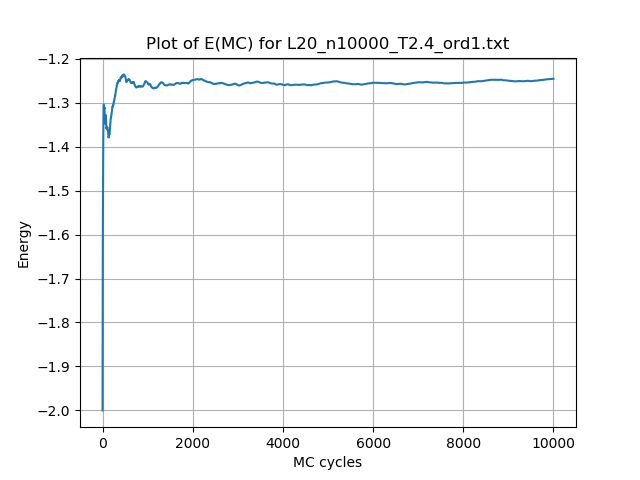
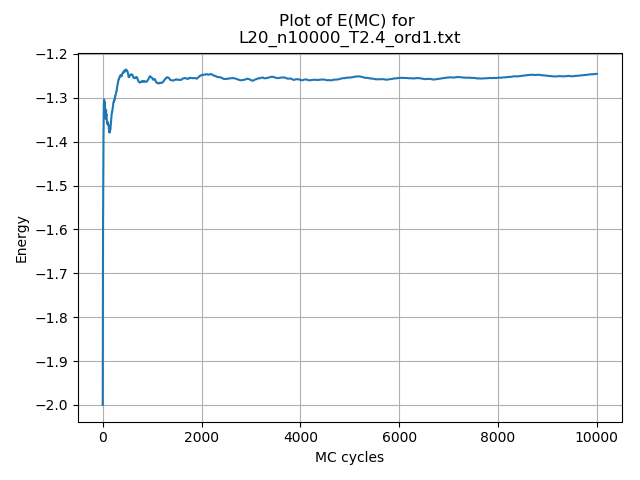
re-ran all(?) plots with tight-layout and \n in title

diff --git a/Project 4/program/probability_distribution_new.py b/Project 4/program/probability_distribution_new.py
@@ -53,11 +53,13 @@ plt.axvline(emean-estd, linestyle="--", color="r")
 plt.axvline(emean, linestyle="--", color="g", label="mean")
 plt.axvline(emean+estd, linestyle="--", color="r", label="std")
 plt.hist(energy[10000:], bins=114, density=True, stacked=True) # Tried various bins, but this gave the fewest artifacts
-plt.title("Energy Probability distribution of " + sys.argv[1])
+plt.title("Energy Probability distribution of \n" + sys.argv[1])
 plt.xlabel("Energy")
 plt.ylabel("P(E)")
 plt.legend()
-plt.savefig("../img/energyhistogram_" + sys.argv[1][:-4] + ".png")
+plt.tight_layout()
+plt.savefig("../img/energyhistogram_" + file[:-11] + file[-10:-4] + ".png")
+#plt.savefig("../img/energyhistogram_" + sys.argv[1][:-4] + ".png")
 plt.show()
 
 
@@ -66,9 +68,11 @@ plt.axvline(mmean-mstd, linestyle="--", color="r")
 plt.axvline(mmean, linestyle="--", color="g", label="mean")
 plt.axvline(mmean+mstd, linestyle="--", color="r", label="std")
 plt.hist(magnet[10000:], bins=126, density=True, stacked=True) # Tried various bins, but this gave the fewest artifacts
-plt.title("Magnetization Probability distribution of " + sys.argv[1])
+plt.title("Magnetization Probability distribution of \n" + sys.argv[1])
 plt.xlabel("Magnetization")
 plt.ylabel("P(E)")
 plt.legend()
-plt.savefig("../img/magnethistogram_" + sys.argv[1][:-4] + ".png")
+plt.tight_layout()
+plt.savefig("../img/magnethistogram_" + file[:-11] + file[-10:-4] + ".png")
+#plt.savefig("../img/magnethistogram_" + sys.argv[1][:-4] + ".png")
 plt.show()

diff --git a/Project 4/program/plot.py b/Project 4/program/plot.py
@@ -26,11 +26,12 @@ for i in range(len(values)):
 
 #plt.subplot(2,1,1)
 plt.plot(result)
-plt.title("Plot of E(MC) for " + filename)
+plt.title("Plot of E(MC) for \n" + filename)
 plt.xlabel("MC cycles")
 plt.ylabel("Energy")
 plt.grid()
-plt.savefig("../img/energy_" + filename[:-4] + ".png")
+plt.tight_layout()
+plt.savefig("../img/energy_" + filename[:-11] + filename[-10:-4] + ".png")
 plt.show()
 valuelist = []
 
@@ -51,9 +52,10 @@ for i in range(len(values)):
 
 #plt.subplot(2,1,2)
 plt.plot(result)
-plt.title("Plot of M(MC) for " + filename)
+plt.title("Plot of M(MC) for \n" + filename)
 plt.xlabel("MC cycles")
 plt.ylabel("Magnetization")
 plt.grid()
-plt.savefig("../img/magnet_" + filename[:-4] + ".png")
+plt.tight_layout()
+plt.savefig("../img/magnet_" + filename[:-11] + filename[-10:-4] + ".png")
 plt.show()

diff --git a/Project 4/program/acc_spin_plot.py b/Project 4/program/acc_spin_plot.py
@@ -24,9 +24,10 @@ for i in range(len(values)):
 
 
 plt.plot(result)
-plt.title("Plot of Accepted spins as a function of MC-cycles for " + filename)
+plt.title("Plot of Accepted spins as a function of MC-cycles for \n" + filename)
 plt.xlabel("MC cycles")
 plt.ylabel("Accepted Spins")
 plt.grid()
-plt.savefig("../img/accept_" + filename[:-4] + ".png")
+plt.tight_layout()
+plt.savefig("../img/accept_" + filename[:-11] + filename[-10:-4] + ".png")
 plt.show()
